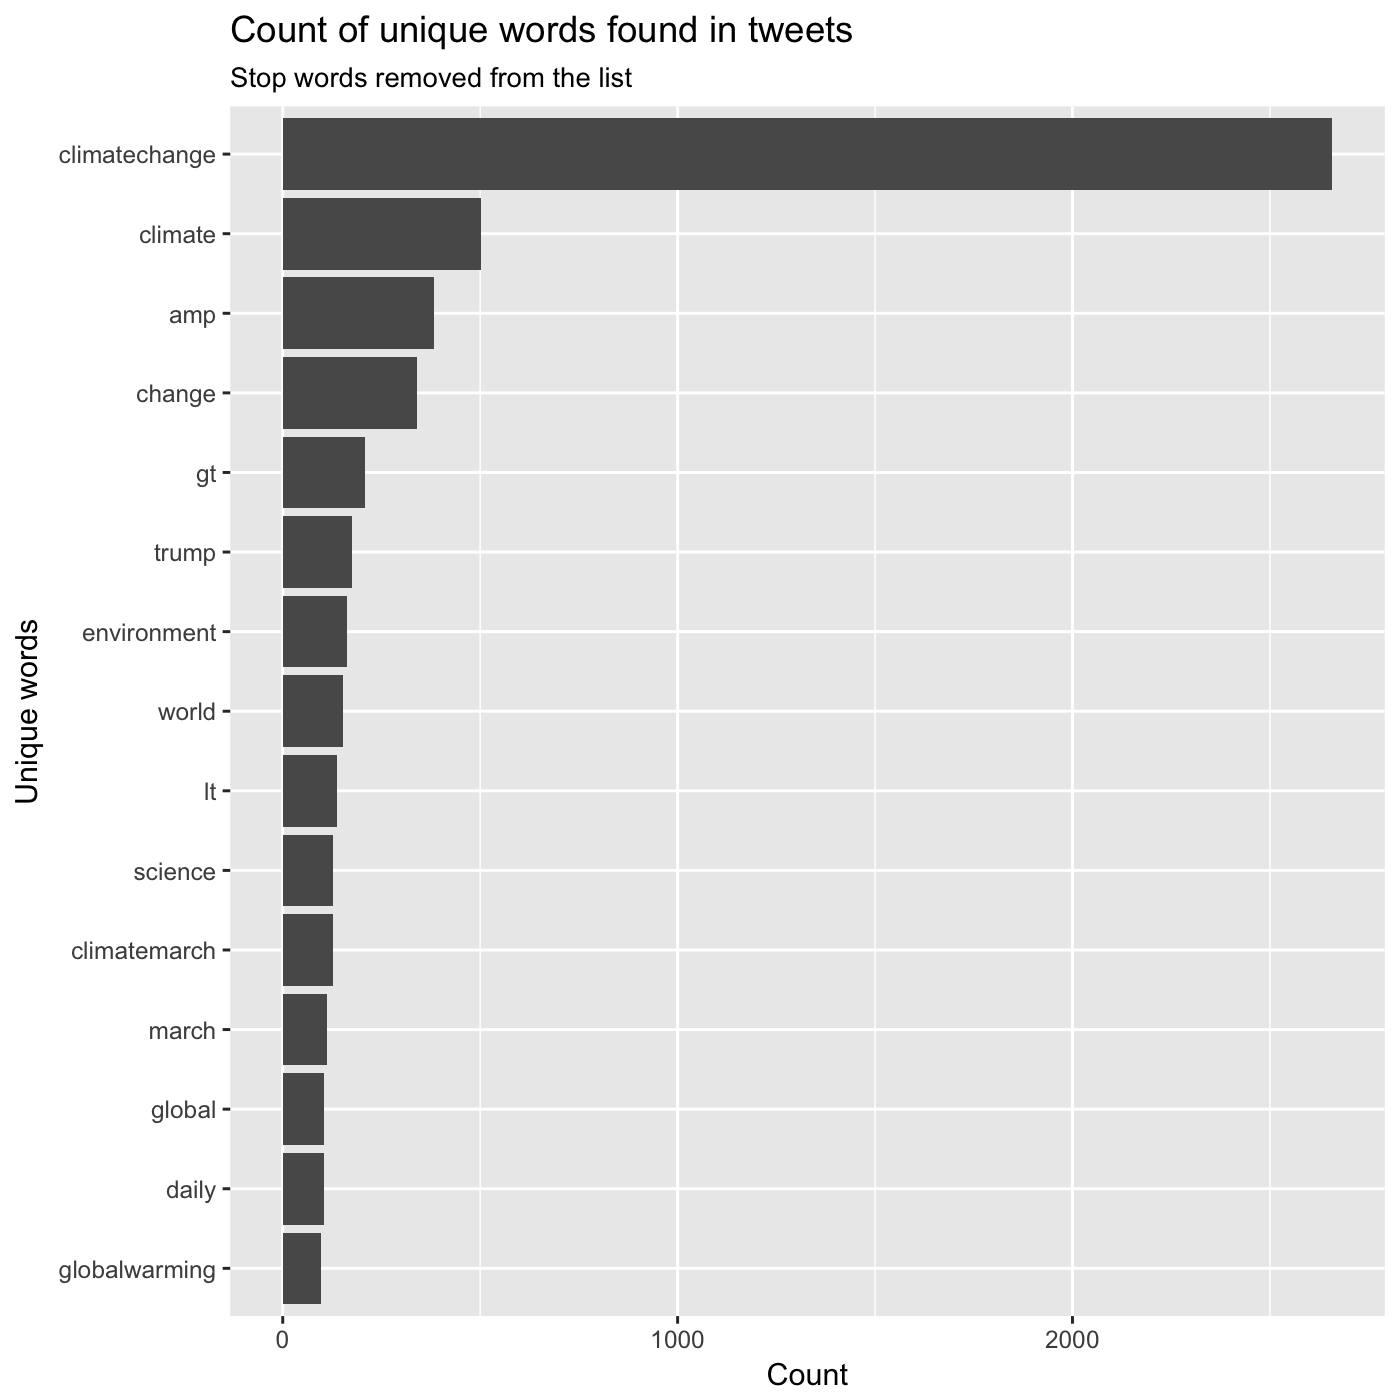
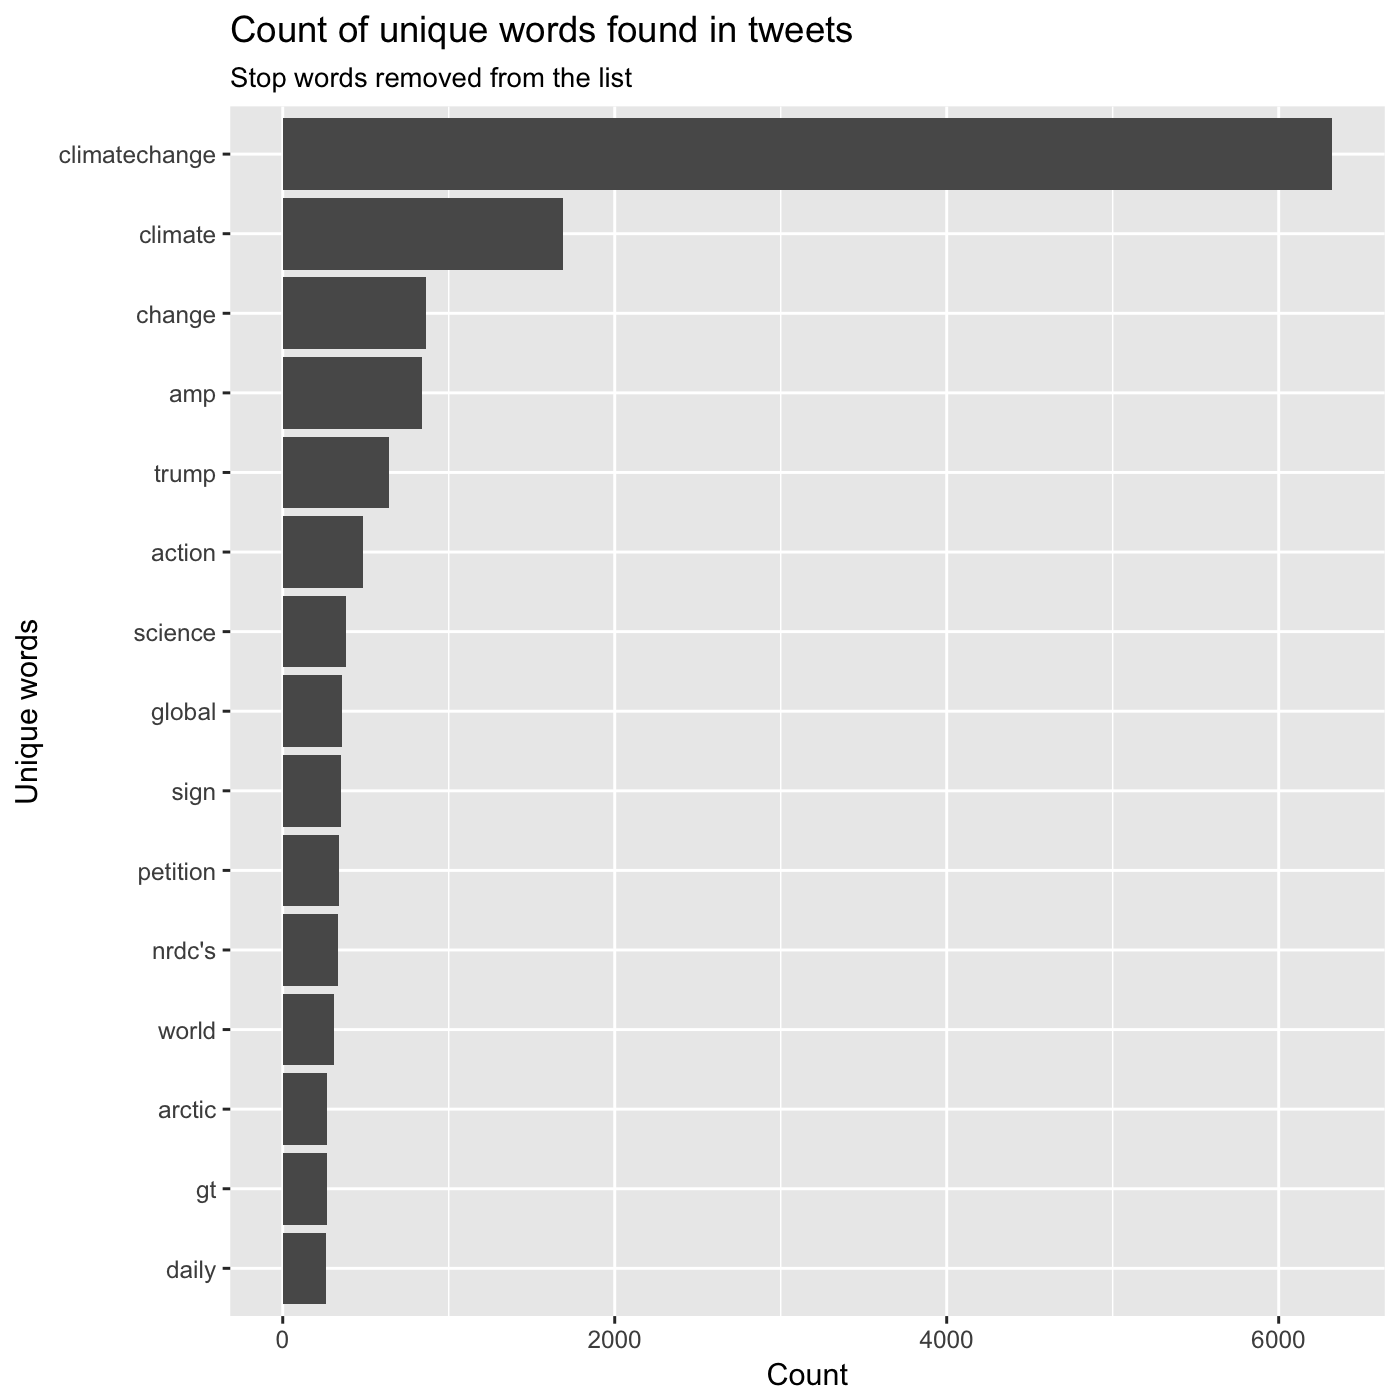
fixing weird build problem

diff --git a/_posts/course-materials/earth-analytics/week-12/in-class/2017-04-19-social-media-03-r.md b/_posts/course-materials/earth-analytics/week-12/in-class/2017-04-19-social-media-03-r.md
@@ -3,7 +3,7 @@ layout: single
 title: "Use tidytext to text mine social media - twitter data using the twitter API from rtweet in R"
 excerpt: "This lesson provides an example of modularizing code in R. "
 authors: ['Leah Wasser','Carson Farmer']
-modified: '2017-05-02'
+modified: '2017-05-04'
 category: [course-materials]
 class-lesson: ['social-media-r']
 permalink: /course-materials/earth-analytics/week-12/text-mining-twitter-data-intro-r/
@@ -19,9 +19,11 @@ lang-lib:
 topics:
   social-science: ['social-media']
   data-exploration-and-analysis: ['text-mining']
+output: html_document
 ---
 
 {% include toc title="In This Lesson" icon="file-text" %}
+
 
 <div class='notice--success' markdown="1">
 
@@ -70,8 +72,27 @@ In this example, let's find tweets that are using the words "forest fire" in the
 
 
 
+
+First, we load the `rtweet` and other needed `R` packages. Note we are introducing
+2 new packages lower in this lesson: igraph and ggraph.
+
+
 ```r
-climate_tweets <- search_tweets(q="#climatechange", n=10000, 
+# load twitter library - the rtweet library is recommended now over twitteR
+library(rtweet)
+# plotting and pipes - tidyverse!
+library(ggplot2)
+library(dplyr)
+# text mining library
+library(tidytext)
+# plotting packages
+library(igraph)
+library(ggraph)
+```
+
+
+```r
+climate_tweets <- search_tweets(q="#climatechange", n=10000,
                                       lang="en",
                                       include_rts = FALSE)
 ```
@@ -89,12 +110,16 @@ the entire string. Let's try it.
 
 ```r
 # Find tweet using forest fire in them
-climate_tweets <- search_tweets(q="#climatechange", n=4000, lang="en",
+climate_tweets <- search_tweets(q="#climatechange", n=10000, lang="en",
                              include_rts = FALSE)
-## Error in eval(expr, envir, enclos): could not find function "search_tweets"
 # check data to see if there are emojis
 head(climate_tweets$text)
-## Error in head(climate_tweets$text): object 'climate_tweets' not found
+## [1] "@billmckibben #ClimateChange is real..... expect more extreme weather! https://t.co/oCMIvfEaBL"                                         
+## [2] "#Mission:#Climate @ home &gt; Vegan - huge benefit to earth (by @FilmCriticOne) #ClimateChange #Tip #EarthRightNow"                     
+## [3] "This was forecast years ago in the book, \"The Coming Plague\" -- https://t.co/wOFoyxjojN #climatechange"                               
+## [4] "If the Earth had 2 moons? Hope you're not also dealing with #climatechange! #WaterWorld #MayTheFourthBeWithYou https://t.co/ssbfUGRD1O" 
+## [5] "The US can legally remain in the #ParisAgreement and change their NDC. \n\n#COP21 #Climatechange #franceintheus https://t.co/nLtNWlHvaU"
+## [6] "The latest The Couposh Daily! https://t.co/C8SnrEdpvZ Thanks to @connpost @tessawegert @CTnewshound #ad #climatechange"
 ```
 
 ## Data clean-up
@@ -114,9 +139,7 @@ those.
 
 # remove http elements manually
 climate_tweets$stripped_text <- gsub("http.*","",  climate_tweets$text)
-## Error in gsub("http.*", "", climate_tweets$text): object 'climate_tweets' not found
 climate_tweets$stripped_text <- gsub("https.*","", climate_tweets$stripped_text)
-## Error in gsub("https.*", "", climate_tweets$stripped_text): object 'climate_tweets' not found
 ```
 
 Finally, we can clean up our text. If we are trying to create a list of unique
@@ -155,7 +178,6 @@ cleaned up tweet text stored.
 climate_tweets_clean <- climate_tweets %>%
   dplyr::select(stripped_text) %>%
   unnest_tokens(word, stripped_text)
-## Error in eval(expr, envir, enclos): object 'climate_tweets' not found
 ```
 
 Now we can plot our data. What do you notice?
@@ -174,8 +196,9 @@ climate_tweets_clean %>%
       labs(x="Count",
       y="Unique words",
       title="Count of unique words found in tweets")
-## Error in eval(expr, envir, enclos): object 'climate_tweets_clean' not found
 ```
+
+<img src="{{ site.url }}/images/rfigs/course-materials/earth-analytics/week-12/in-class/2017-04-19-social-media-03-r/plot-uncleaned-data-1.png" title="plot of users tweeting about fire." alt="plot of users tweeting about fire." width="100%" />
 
 Our plot of unique words contains some words that may not be useful to use. For instance
 "a" and "to". In the word of text mining we call those words - 'stop words'.
@@ -194,22 +217,28 @@ Let's give this a try next!
 ```r
 # load list of stop words - from the tidytext package
 data("stop_words")
-## Warning in data("stop_words"): data set 'stop_words' not found
 # view first 6 words
 head(stop_words)
-## Error in head(stop_words): object 'stop_words' not found
+## # A tibble: 6 × 2
+##        word lexicon
+##       <chr>   <chr>
+## 1         a   SMART
+## 2       a's   SMART
+## 3      able   SMART
+## 4     about   SMART
+## 5     above   SMART
+## 6 according   SMART
 
 nrow(climate_tweets_clean)
-## Error in nrow(climate_tweets_clean): object 'climate_tweets_clean' not found
+## [1] 121318
 
 # remove stop words from our list of words
 cleaned_tweet_words <- climate_tweets_clean %>%
   anti_join(stop_words)
-## Error in eval(expr, envir, enclos): object 'climate_tweets_clean' not found
 
 # there should be fewer words now
 nrow(cleaned_tweet_words)
-## Error in nrow(cleaned_tweet_words): object 'cleaned_tweet_words' not found
+## [1] 71809
 ```
 
 Now that we've performed this final step of cleaning, we can try to plot, once
@@ -230,13 +259,14 @@ cleaned_tweet_words %>%
       x="Unique words",
       title="Count of unique words found in tweets",
       subtitle="Stop words removed from the list")
-## Error in eval(expr, envir, enclos): object 'cleaned_tweet_words' not found
 ```
+
+<img src="{{ site.url }}/images/rfigs/course-materials/earth-analytics/week-12/in-class/2017-04-19-social-media-03-r/plot-cleaned-words-1.png" title="top 15 words used in tweets" alt="top 15 words used in tweets" width="100%" />
 
 ## Explore networks of words
 
-We might also want to explore words that occur together in tweets. LEt's do that 
-next. 
+We might also want to explore words that occur together in tweets. LEt's do that
+next.
 
 ngrams specifies pairs and 2 is the number of words together
 
@@ -245,16 +275,29 @@ ngrams specifies pairs and 2 is the number of words together
 # library(devtools)
 #install_github("dgrtwo/widyr")
 library(widyr)
+## Error in library(widyr): there is no package called 'widyr'
 
 # remove punctuation, convert to lowercase, add id for each tweet!
 climate_tweets_paired_words <- climate_tweets %>%
   dplyr::select(stripped_text) %>%
   unnest_tokens(paired_words, stripped_text, token = "ngrams", n=2)
-## Error in eval(expr, envir, enclos): object 'climate_tweets' not found
 
 climate_tweets_paired_words %>%
   count(paired_words, sort = TRUE)
-## Error in eval(expr, envir, enclos): object 'climate_tweets_paired_words' not found
+## # A tibble: 66,067 × 2
+##        paired_words     n
+##               <chr> <int>
+## 1    climate change   664
+## 2  climatechange is   409
+## 3        the latest   357
+## 4    climate action   349
+## 5  on climatechange   334
+## 6       petition to   334
+## 7       sign nrdc's   334
+## 8   action petition   332
+## 9          to trump   332
+## 10   nrdc's climate   331
+## # ... with 66,057 more rows
 ```
 
 
@@ -262,20 +305,27 @@ climate_tweets_paired_words %>%
 library(tidyr)
 climate_tweets_separated_words <- climate_tweets_paired_words %>%
   separate(paired_words, c("word1", "word2"), sep = " ")
-## Error in eval(expr, envir, enclos): object 'climate_tweets_paired_words' not found
 
 climate_tweets_filtered <- climate_tweets_separated_words %>%
   filter(!word1 %in% stop_words$word) %>%
   filter(!word2 %in% stop_words$word)
-## Error in eval(expr, envir, enclos): object 'climate_tweets_separated_words' not found
 
 # new bigram counts:
-climate_words_counts <- climate_tweets_filtered %>% 
+climate_words_counts <- climate_tweets_filtered %>%
   count(word1, word2, sort = TRUE)
-## Error in eval(expr, envir, enclos): object 'climate_tweets_filtered' not found
 
 head(climate_words_counts)
-## Error in head(climate_words_counts): object 'climate_words_counts' not found
+## Source: local data frame [6 x 3]
+## Groups: word1 [5]
+## 
+##           word1    word2     n
+##           <chr>    <chr> <int>
+## 1       climate   change   664
+## 2       climate   action   349
+## 3          sign   nrdc's   334
+## 4        action petition   332
+## 5        nrdc's  climate   331
+## 6 climatechange      amp   121
 ```
 
 FInally, plot the data
@@ -283,22 +333,7 @@ FInally, plot the data
 
 ```r
 library(igraph)
-## 
-## Attaching package: 'igraph'
-## The following objects are masked from 'package:tidyr':
-## 
-##     %>%, crossing
-## The following objects are masked from 'package:dplyr':
-## 
-##     %>%, as_data_frame, groups, union
-## The following objects are masked from 'package:stats':
-## 
-##     decompose, spectrum
-## The following object is masked from 'package:base':
-## 
-##     union
 library(ggraph)
-## Loading required package: ggplot2
 
 # plot climate change word network
 climate_words_counts %>%
@@ -308,15 +343,14 @@ climate_words_counts %>%
         geom_edge_link(aes(edge_alpha = n, edge_width = n)) +
         geom_node_point(color = "darkslategray4", size = 3) +
         geom_node_text(aes(label = name), vjust = 1.8, size=3) +
-        labs(title= "Word Network: Tweets using the hashtag - Climate Change", 
+        labs(title= "Word Network: Tweets using the hashtag - Climate Change",
              subtitle="Text mining twitter data ",
-             x="", y="") 
-## Error in eval(expr, envir, enclos): object 'climate_words_counts' not found
+             x="", y="")
 ```
 
-We expect the words climate & change to have a high 
+<img src="{{ site.url }}/images/rfigs/course-materials/earth-analytics/week-12/in-class/2017-04-19-social-media-03-r/word-assoc-plot-1.png" title="word associations for climate change tweets" alt="word associations for climate change tweets" width="100%" />
 
-
+We expect the words climate & change to have a high
 
 
 
